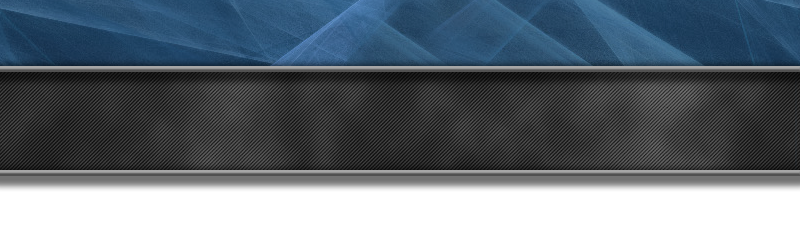
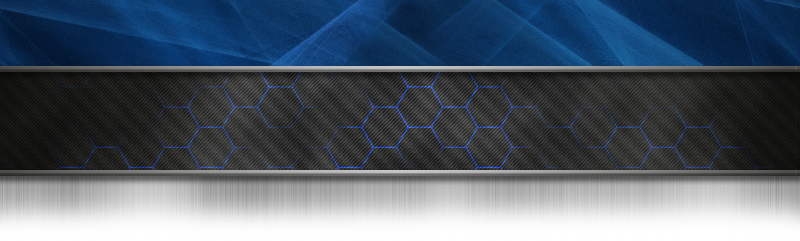
v4

diff --git a/contact.html b/contact.html
@@ -103,20 +103,19 @@
 				</div>
 				<div class="row">
 					<div class="col-md-1"></div>
-					<div class="col-md-5">
-						For sales support on our Semiconductor Failure Analysis or Counterfeit Solutions equipment, please contact us.<br><br>
+					<div class="col-md-5 mycontent-left">
+						For general information or to be directed to a sales representative, please contact:<br><br>
 						<p>Email: <a href="mailto:info@rkdengineering.com">info@rkdengineering.com</a></p>
 						<p>Phone: +1.831.430.9464</p>
-						<p>Fax: +1.831.438.0485</p></div>
-						<div class="col-md-5">
-							For equipment service, technical support or additional information on fluid handling, please contact:<br><br>
-							<p>Email: <a href="mailto:engineering@rkdengineering.com">engineering@rkdengineering.com</a></p>
-							<p>Phone: +1.831.818.4887</p>
-							<p>Fax: +1.831.438.0485</p>
-						</div>
-						<div class="col-md-1"></div>
-						</div>
-						<br>
+						<p>Fax: +1.831.438.0485</p>
+					</div>
+					<div class="col-md-5">
+						For equipment service, technical support or additional information, please contact:<br><br>
+						<p>Email: <a href="mailto:engineering@rkdengineering.com">engineering@rkdengineering.com</a></p>
+					</div>
+					<div class="col-md-1"></div>
+				</div>
+				<br>
 						<div class="row">
 							<div class="col-md-3"></div>
 							<div class="col-md-6">
@@ -133,9 +132,16 @@
 											</div>
 											<!-- Email input-->
 											<div class="form-group">
-												<label class="col-md-3 control-label" for="email">Your E-mail</label>
+												<label class="col-md-3 control-label" for="email">E-mail</label>
 												<div class="col-md-9">
 													<input id="email" name="email" type="text" placeholder="Your email" class="form-control">
+												</div>
+											</div>
+											<!-- Your company-->
+											<div class="form-group">
+												<label class="col-md-3 control-label" for="email">Company</label>
+												<div class="col-md-9">
+													<input id="company" name="company" type="text" placeholder="Your Company" class="form-control">
 												</div>
 											</div>
 											<!-- Message body -->

diff --git a/index.html b/index.html
@@ -123,7 +123,7 @@
 						<div class="card-body">
 							<a href="products.html"><h2 class="card-title">Semiconductor Failure Analysis Products</h2></a>
 							<p class="card-text">RKD Engineering’s extensive line of sample preparation products allow the Failure Analysis engineer to open a wide range of package sizes with various synthetic polymers.<br><br>
-							Our product exposes the die surface and bond wires, allows optical back side evaluation and focused ion beam editing, and can perform front side de-layering. </p>
+							Our product exposes the die surface and bond wires, allows precavitation of polymer IC packages. </p>
 							<p><a href="products.html"><img src="assets/img/seemore.png" class="button-grow" alt="..." style="width:150px"></a></p>
 						</div>
 					</div>

diff --git a/dist/css/bootstrap.css b/dist/css/bootstrap.css
@@ -4525,7 +4525,7 @@ tbody.collapse.show {
 }
 
 .jumbotron {
-  background-image: url("../../assets/img/flag.png"), url("../../assets/img/headfade.png"), url("../../assets/img/jumbotron_bg.png");
+  background-image: url("../../assets/img/flag.png"), url("../../assets/img/headfade.png"), url("../../assets/img/jumbotron_bg2.png");
   background-repeat: no-repeat, no-repeat, repeat-x;
   background-position: center top, center top, center top;
   background-size: auto, 100% 241px, auto;

diff --git a/assets/css/jumbotron.css b/assets/css/jumbotron.css
@@ -99,3 +99,8 @@ html {
   position: relative;
   min-height: 100%;
 }
+
+.mycontent-left {
+	border-left: 1px solid #333;
+  border-right: 1px solid #333;
+}
